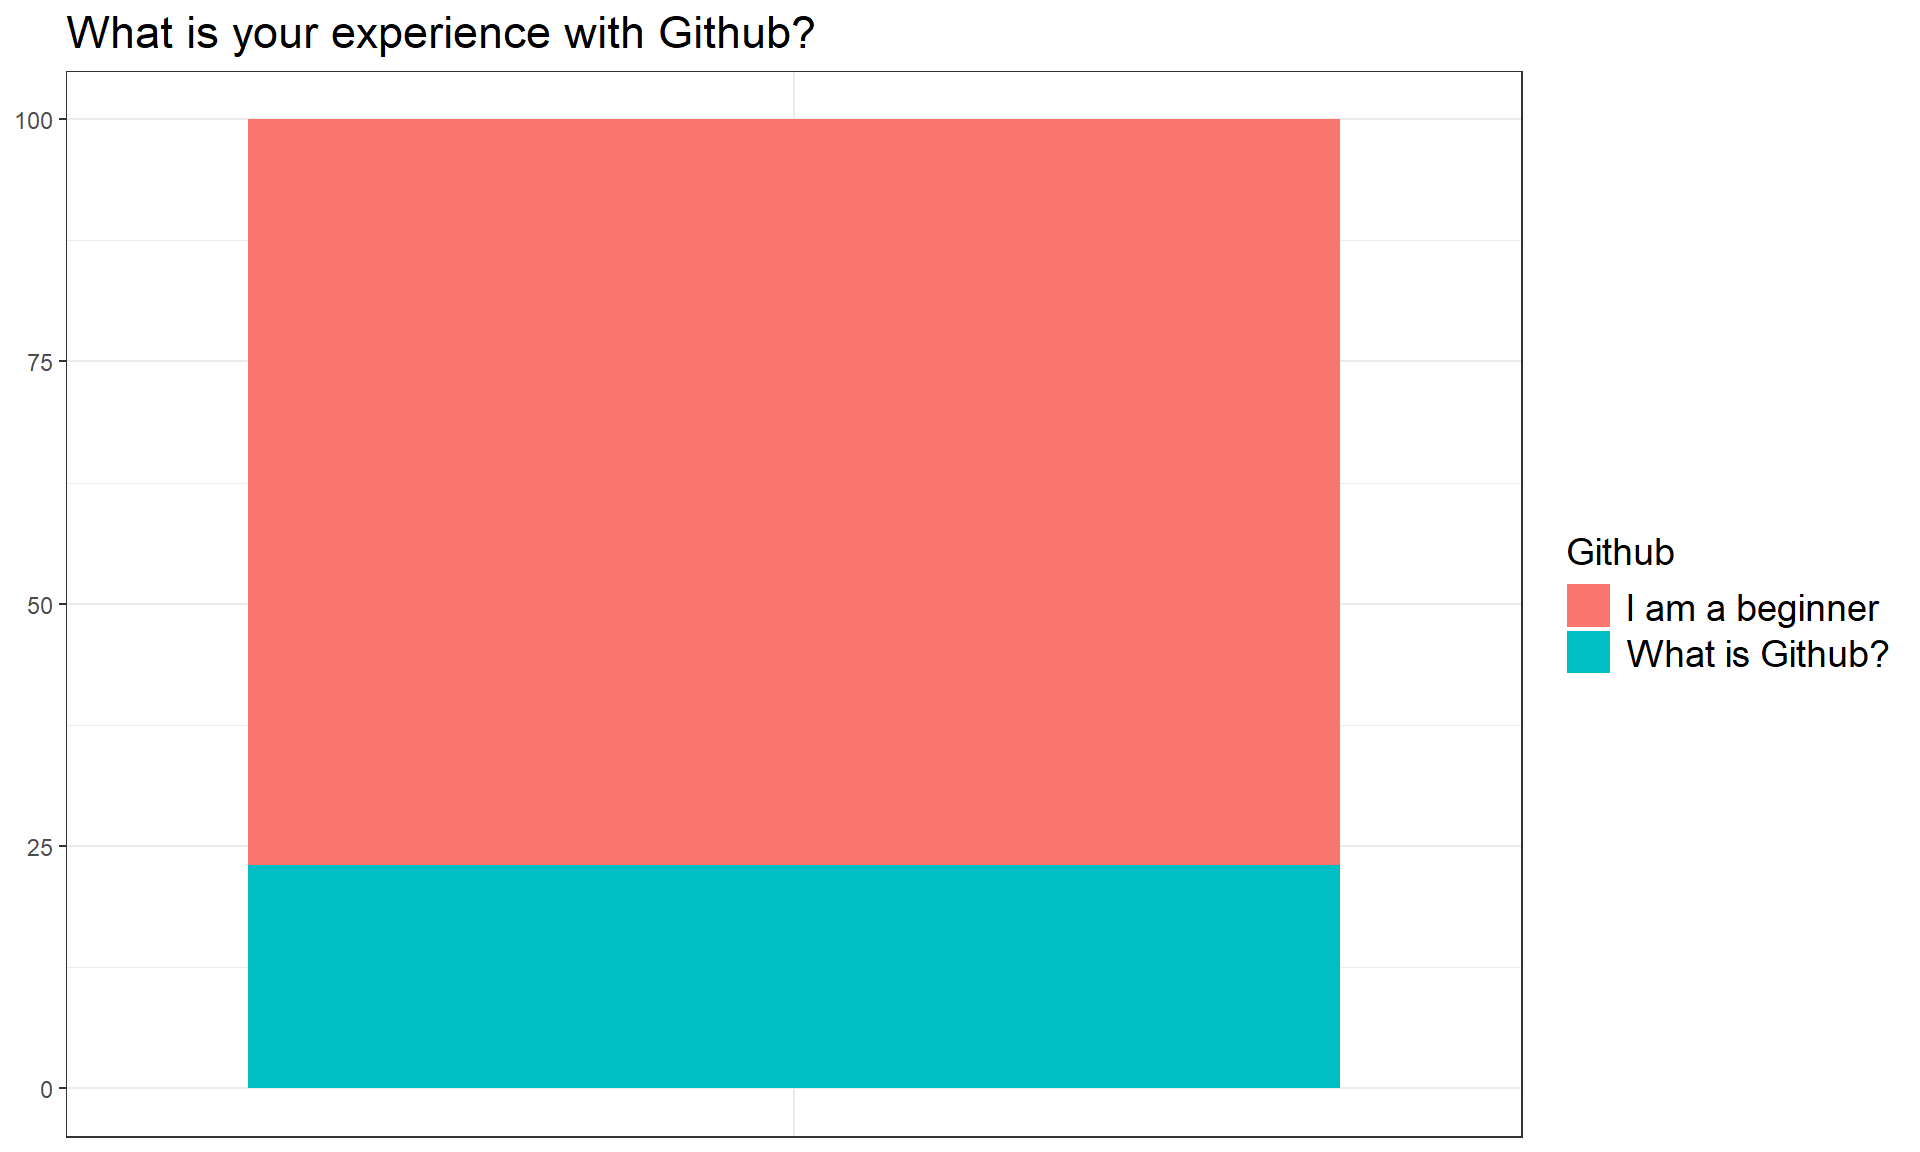
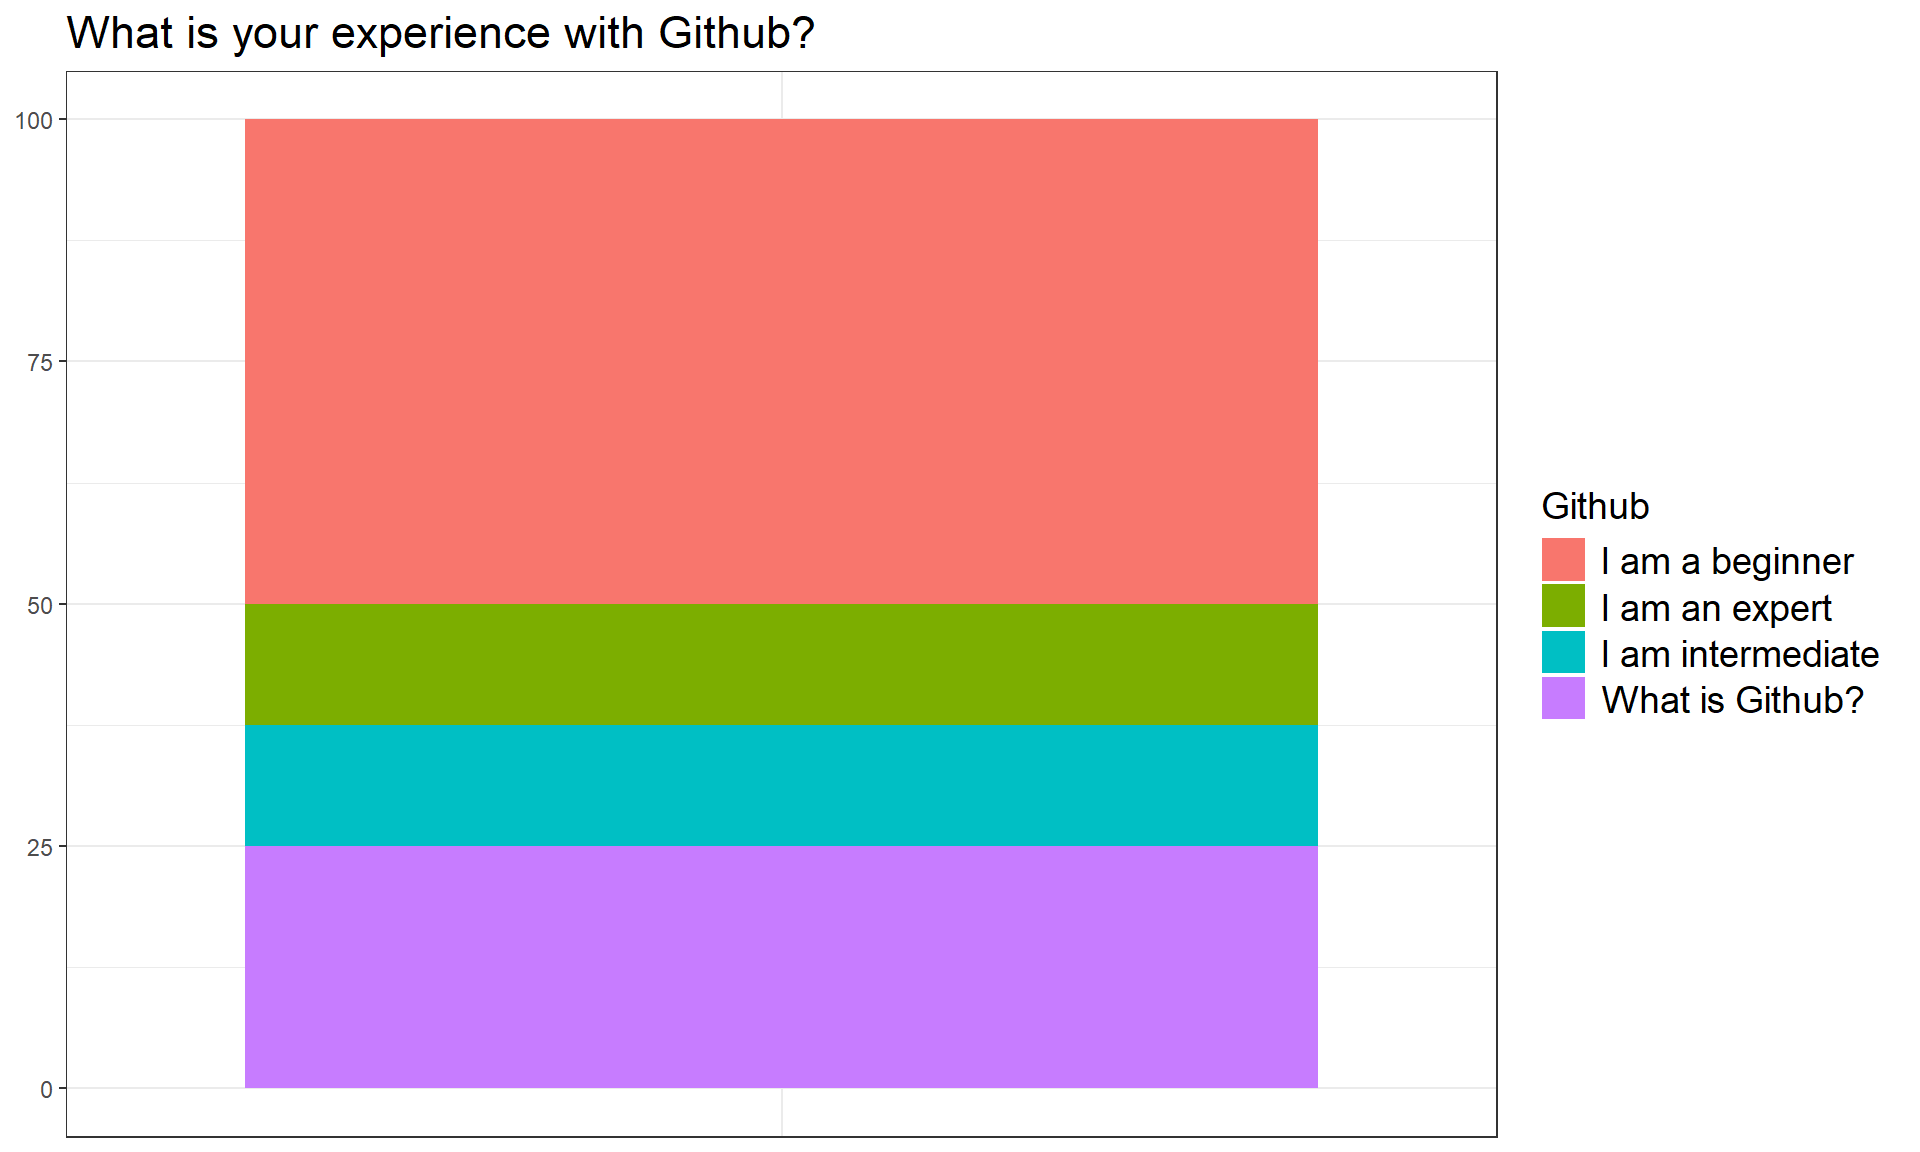
updated wordcloud

Changed region(s): [[0.125, 0.0938, 0.7188, 0.9688], [0.7812, 0.4062, 1.0, 0.625]]

diff --git a/Week_01/1_What_is_Data.html b/Week_01/1_What_is_Data.html
@@ -10,7 +10,7 @@
   <meta name="generator" content="quarto-1.9.38">
 
   <meta name="author" content="Dr.&nbsp;Nyssa Silbiger">
-  <meta name="dcterms.date" content="2026-08-19">
+  <meta name="dcterms.date" content="2026-08-21">
   <title>Computer Modeling (OCN 682)</title>
   <meta name="apple-mobile-web-app-capable" content="yes">
   <meta name="apple-mobile-web-app-status-bar-style" content="black-translucent">
@@ -191,18 +191,6 @@
       margin-right: 0; 
     }
   </style>
-  <link href="1_What_is_Data_files/libs/htmltools-fill/fill.css" rel="stylesheet">
-
-  <script src="1_What_is_Data_files/libs/htmlwidgets/htmlwidgets.js"></script>
-
-  <link href="1_What_is_Data_files/libs/wordcloud2/wordcloud.css" rel="stylesheet">
-
-  <script src="1_What_is_Data_files/libs/wordcloud2/wordcloud2-all.js"></script>
-
-  <script src="1_What_is_Data_files/libs/wordcloud2/hover.js"></script>
-
-  <script src="1_What_is_Data_files/libs/wordcloud2-binding/wordcloud2.js"></script>
-
 </head>
 <body class="quarto-light">
   <div class="reveal">
@@ -223,7 +211,7 @@ Dr.&nbsp;Nyssa Silbiger
     </div>
 </div>
 
-  <p class="date">2026-08-19</p>
+  <p class="date">2026-08-21</p>
 </section>
 <section id="welcome-to-data-science-fundamentals-in-r" class="slide level2 inverse center middle">
 <h2>Welcome to Data Science Fundamentals in R</h2>
@@ -327,20 +315,11 @@ Dr.&nbsp;Nyssa Silbiger
 <section id="what-is-your-experience-1" class="slide level2">
 <h2>What is your experience?</h2>
 
-<img data-src="1_What_is_Data_files/figure-revealjs/rexper-plot-1.png" width="960" class="r-stretch"></section>
-<section id="what-is-your-experience-2" class="slide level2">
-<h2>What is your experience?</h2>
-
 <img data-src="1_What_is_Data_files/figure-revealjs/git-plot-1.png" width="960" class="r-stretch"></section>
 <section id="what-do-you-want-to-learn" class="slide level2">
 <h2>What do you want to learn?</h2>
-<div class="cell" data-layout-align="center">
-<div class="cell-output-display">
-<p></p><div class="wordcloud2 html-widget html-fill-item" id="htmlwidget-b7f615c29a3dc983ab8a" style="width:960px;height:672px;"></div>
-<script type="application/json" data-for="htmlwidget-b7f615c29a3dc983ab8a">{"x":{"word":["data","r","research","skills","advance","also","analysis","analyze","apply","become","code","create","doing","future","learn","more","understand","want","what","will","ability","able","accessible","answer","as","best","bindin","biogeochemical","blocks","called","capstone","cascades","clean","co1","collector","comes","confident","confidently","coral","creating","deal","develop","didnt","different","do","ecology","effectively","end","enough","especially","etc","expand","figures","following","formally","foundational","fully","gams","gene","get","github","glms","go","graduate","havent","interpret","just","manage","managing","medium","model","need","organization","organize","organized","own","practices","proficient","project","protein","quantitative","questions","rather","real","reefs","remote","result","scripts","sensing","sequencing","series","set","showing","spatial","steps","structure","than","then","tips","understanding","urchins","used","very","visualize","ways","while","work"],"freq":[9,6,4,4,2,2,2,2,2,2,2,2,2,2,2,2,2,2,2,2,1,1,1,1,1,1,1,1,1,1,1,1,1,1,1,1,1,1,1,1,1,1,1,1,1,1,1,1,1,1,1,1,1,1,1,1,1,1,1,1,1,1,1,1,1,1,1,1,1,1,1,1,1,1,1,1,1,1,1,1,1,1,1,1,1,1,1,1,1,1,1,1,1,1,1,1,1,1,1,1,1,1,1,1,1,1,1],"fontFamily":"Segoe UI","fontWeight":"bold","color":"random-light","minSize":0,"weightFactor":20,"backgroundColor":"grey","gridSize":0,"minRotation":-0.7853981633974483,"maxRotation":0.7853981633974483,"shuffle":true,"rotateRatio":0.4,"shape":"circle","ellipticity":0.65,"figBase64":null,"hover":null},"evals":[],"jsHooks":{"render":[{"code":"function(el,x){\n                        console.log(123);\n                        if(!iii){\n                          window.location.reload();\n                          iii = False;\n\n                        }\n  }","data":null}]}}</script><p></p>
-</div>
-</div>
-</section>
+
+<img data-src="1_What_is_Data_files/figure-revealjs/wordcloud-1.png" class="quarto-figure quarto-figure-center r-stretch" width="960"></section>
 <section id="but-first-tell-me-about-you" class="slide level2">
 <h2>But first, tell me about you…</h2>
 <h3 id="ice-breaker">Ice Breaker</h3>
